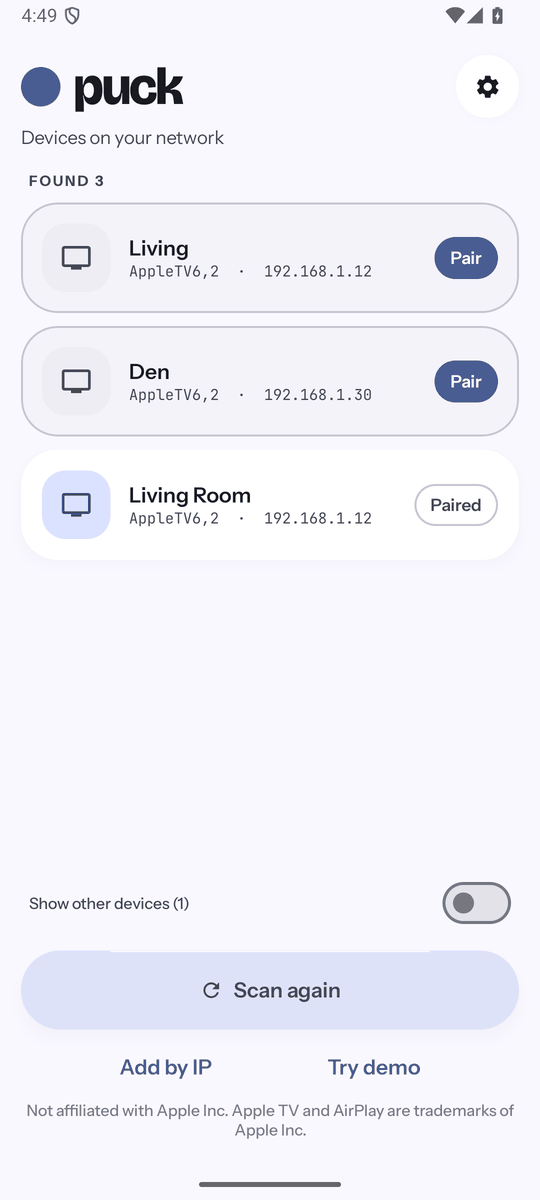
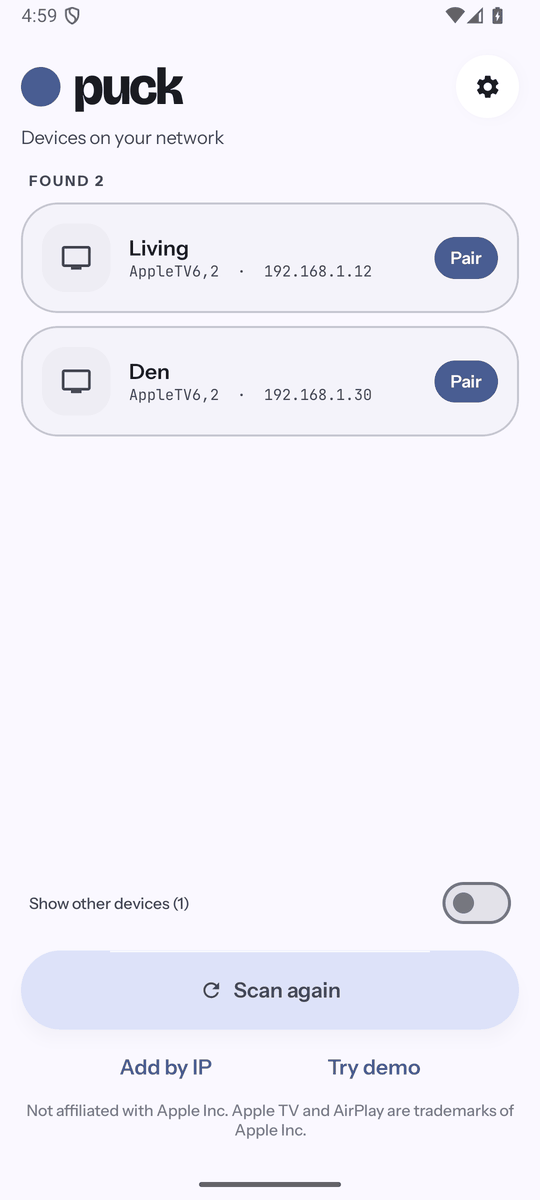
docs: fix duplicate TV in the device list screenshot
The emulator discovered the real Living and Den TVs, and the placeholder
Living Room reused Living's address, so one TV appeared twice. Drop the
placeholder from the list, name the widget placeholders to match, and
retake the device list and widgets shots.

diff --git a/README.md b/README.md
@@ -30,7 +30,7 @@ talking straight to your Apple TV over the LAN.
   <img src="docs/screenshots/settings.png" width="30%" alt="Settings: remote style, controls side and touchpad sensitivity" />
   <img src="docs/screenshots/widgets.png" width="30%" alt="Home-screen widgets: Action button, Rooms, Room tile and a Room strip with Play/Pause" />
 </p>
-<p align="center"><sub>Screenshots are from an Android emulator: the built-in demo mode, and a placeholder TV entry in the device list. No real Apple TV is shown.</sub></p>
+<p align="center"><sub>Screenshots are from an Android emulator: the built-in demo mode for the remote, apps and settings, and placeholder TVs behind the widgets. No Apple TV is being controlled.</sub></p>
 
 ## Features
 
